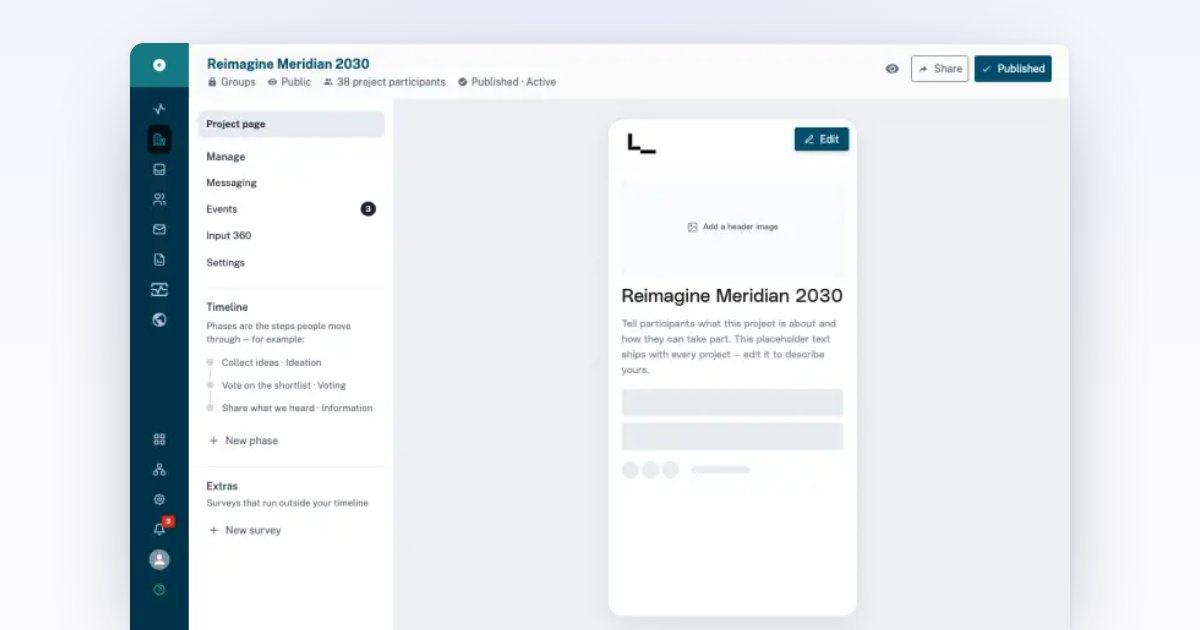
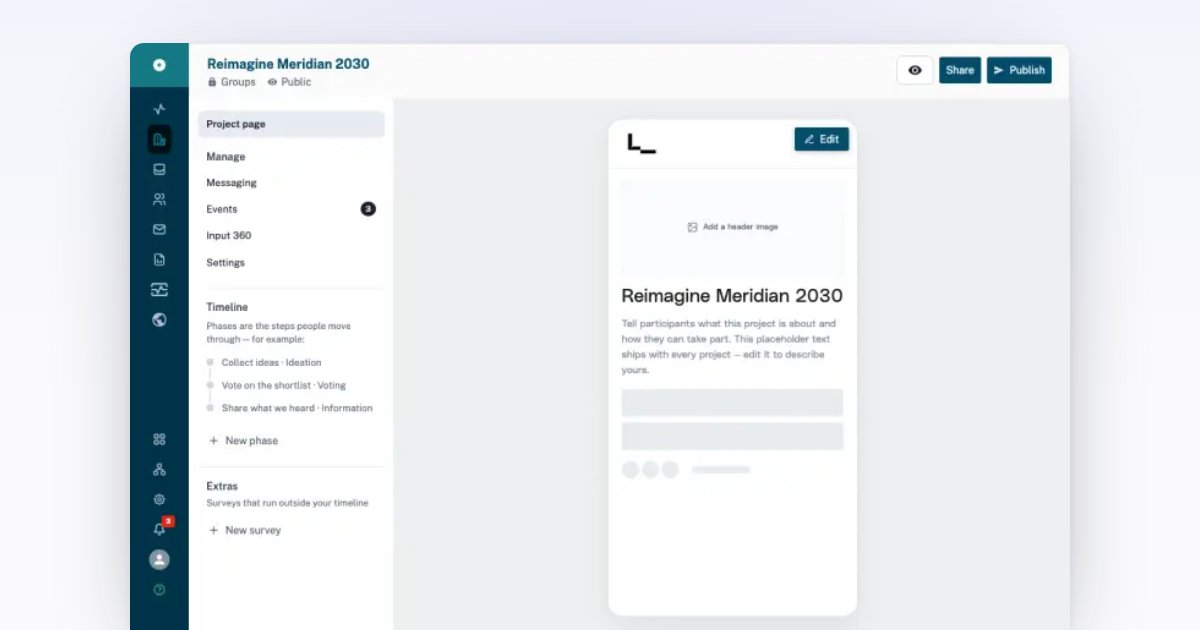
back-office-test: unpublished top-bar (eye · Share · Publish) + Schedule-publication modal
The draft project no longer shows a Published status: the meta drops the participant
count and 'Published · Active', and the top-right is the real unpublished cluster —
outlined Preview (eye), navy Share, navy Publish with the paper-plane glyph. Publish
opens a faithful 'Schedule publication' modal (Schedule/Now toggle, date+time, audience,
'Project published' email toggle, recipient count).

Changed region(s): [[0.74, 0.0603, 0.8942, 0.1508], [0.2775, 0.1206, 0.4625, 0.1508]]

diff --git a/parallel-participation/prototypes/back-office-test/index.html b/parallel-participation/prototypes/back-office-test/index.html
@@ -608,9 +608,9 @@
   .icon-btn:hover { background: #f7f8fa; }
   /* Project topbar "preview" = a borderless icon button (real GoVocal has no box
      border here), link-blue eye glyph, with a hover background. */
-  .gv-bo-topbar__actions .pp-topbar-view { border: 0; background: transparent; color: var(--gv-bo-link, #4183c4); padding: 6px; border-radius: 6px; }
-  .gv-bo-topbar__actions .pp-topbar-view:hover { background: #eef1f4; }
-  .gv-bo-topbar__actions .pp-topbar-view > [data-gv-icon] { height: 22px; }
+  .gv-bo-topbar .gv-bo-topbar__actions .gv-btn--icon.pp-topbar-view { border: 1px solid #cbd2dc; background: #fff; color: var(--ink); padding: 9px 14px; border-radius: 8px; }
+  .gv-bo-topbar .gv-bo-topbar__actions .gv-btn--icon.pp-topbar-view:hover { background: #f4f6fa; }
+  .gv-bo-topbar .gv-bo-topbar__actions .gv-btn--icon.pp-topbar-view > [data-gv-icon] { height: 20px; }
   /* Optically centre the meta-row glyphs with their label: a 14px icon on the
      13px text box extends ~0.5px past cap-height, so it reads as sitting high.
      A 1px downward nudge lines the icon up with the text's optical centre. */
@@ -693,6 +693,50 @@
   .btn-primary:hover { background:#162d54; }
   .btn-secondary { background:#fff; color:var(--ink); padding: 9px 18px; border-radius:8px; font-weight:500; font-size:13.5px; border:1px solid var(--border); }
   .btn-secondary:hover { background:#f4f6fa; }
+
+  /* ============ Schedule-publication modal (Publish button) ============ */
+  .pub-card { width: 640px; max-width: 92vw; height: auto; max-height: 90vh; }
+  .pub-head { padding: 24px 28px 18px; border-bottom: 1px solid var(--border); }
+  .pub-head h2 { font-size: 22px; font-weight: 700; color: var(--ink); }
+  .pub-x { color: #6b7280; padding: 4px; border-radius: 6px; line-height: 0; }
+  .pub-x:hover { background: #f4f6fa; color: var(--ink); }
+  .pub-x [data-gv-icon] { width: 22px; height: 22px; }
+  .pub-body { padding: 22px 28px 26px; overflow-y: auto; }
+  .pub-label { font-size: 15px; font-weight: 700; color: var(--ink); margin: 0 0 12px; }
+  .pub-seg {
+    display: grid; grid-template-columns: 1fr 1fr; gap: 4px;
+    background: #eef0f3; border-radius: 12px; padding: 5px; margin-bottom: 26px;
+  }
+  .pub-seg button {
+    display: flex; align-items: center; justify-content: center; gap: 10px;
+    padding: 12px; border-radius: 9px; font-size: 15px; font-weight: 600; color: var(--ink-2);
+  }
+  .pub-seg button [data-gv-icon] { width: 18px; height: 18px; }
+  .pub-seg button.on { background: #fff; color: var(--ink); box-shadow: 0 1px 3px rgba(20,25,40,.12); }
+  .pub-when { display: flex; gap: 12px; margin-bottom: 26px; }
+  .pub-field {
+    display: flex; align-items: center; justify-content: space-between; gap: 12px;
+    padding: 12px 14px; border: 1px solid var(--border); border-radius: 8px;
+    font-size: 15px; color: var(--ink); min-width: 150px;
+  }
+  .pub-field [data-gv-icon] { width: 18px; height: 18px; color: var(--ink-3); }
+  .pub-row-text { font-size: 15px; color: var(--ink-2); line-height: 1.5; margin-bottom: 26px; }
+  .pub-link { color: #1f5fbf; text-decoration: underline; cursor: pointer; }
+  .pub-emailrow { display: flex; align-items: center; justify-content: space-between; gap: 16px; }
+  .pub-recip { font-size: 14px; color: var(--ink-3); margin-top: 8px; display: flex; align-items: center; gap: 6px; }
+  .pub-recip [data-gv-icon] { width: 15px; height: 15px; color: #9aa3b0; }
+  .pub-toggle {
+    width: 52px; height: 30px; border-radius: 999px; background: #34a853; position: relative;
+    flex-shrink: 0; transition: background .15s;
+  }
+  .pub-toggle::after {
+    content: ""; position: absolute; top: 3px; left: 25px; width: 24px; height: 24px;
+    border-radius: 999px; background: #fff; box-shadow: 0 1px 2px rgba(0,0,0,.3); transition: left .15s;
+  }
+  .pub-toggle.off { background: #c2c8d0; }
+  .pub-toggle.off::after { left: 3px; }
+  .pub-foot { padding: 16px 28px; border-top: 1px solid var(--border); display: flex; justify-content: flex-end; }
+  .pub-foot .gv-btn { padding: 11px 22px; font-size: 15px; }
 
   /* ============ Phase config view ============ */
   .phase-stage {
@@ -2341,11 +2385,10 @@
     <div class="gv-bo-topbar__row">
       <div>
         <h1 class="gv-bo-topbar__title" onclick="setView('project', document.querySelector('.side-item[data-view=&quot;project&quot;]'))">Reimagine Meridian 2030</h1>
+        <!-- Draft project (not yet published): no participant count, no "Published" status. -->
         <div class="gv-bo-meta">
           <span class="gv-bo-meta__item"><span class="gv-icon" data-gv-icon="lock"></span>Groups</span>
           <span class="gv-bo-meta__item"><span class="gv-icon" data-gv-icon="eye"></span>Public</span>
-          <span class="gv-bo-meta__item"><span class="gv-icon" data-gv-icon="group"></span>38 project participants</span>
-          <span class="gv-bo-meta__item"><span class="gv-icon" data-gv-icon="check-circle"></span>Published · Active</span>
         </div>
       </div>
       <div class="gv-bo-topbar__actions">
@@ -2365,8 +2408,8 @@
           </div>
         </div>
         <button class="gv-btn gv-btn--icon pp-topbar-view" aria-label="Preview project" onclick="openFO()"><span data-gv-icon="eye"></span></button>
-        <button class="gv-btn secondary-outlined"><span data-gv-icon="share"></span><span class="gv-btn__label">Share</span></button>
-        <button class="gv-btn admin-dark"><span data-gv-icon="check"></span><span class="gv-btn__label">Published</span></button>
+        <button class="gv-btn admin-dark"><span class="gv-btn__label">Share</span></button>
+        <button class="gv-btn admin-dark" onclick="openPublishModal()"><span data-gv-icon="send"></span><span class="gv-btn__label">Publish</span></button>
       </div>
     </div>
   </header>
@@ -5370,6 +5413,46 @@
 </script>
 
 <!-- ============ Phase Settings Modal ============ -->
+<!-- ============ Schedule-publication modal — opened by the Publish button ============ -->
+<div id="publishModal" class="modal-backdrop" style="display:none;" onclick="if(event.target===this)closePublishModal()">
+  <div class="modal-card pub-card">
+    <div class="pub-head" style="display:flex;align-items:flex-start;justify-content:space-between;">
+      <h2>Schedule publication</h2>
+      <button class="pub-x" aria-label="Close" onclick="closePublishModal()"><span data-gv-icon="close"></span></button>
+    </div>
+    <div class="pub-body">
+      <!-- Schedule / Now segmented toggle -->
+      <div class="pub-seg" role="group" aria-label="When to publish">
+        <button class="on" data-when="schedule" onclick="setPublishWhen('schedule', this)"><span data-gv-icon="calendar"></span>Schedule</button>
+        <button data-when="now" onclick="setPublishWhen('now', this)"><span data-gv-icon="send"></span>Now</button>
+      </div>
+
+      <!-- When (date + time) — shown for the Schedule option -->
+      <div id="pub-when-block">
+        <p class="pub-label">When</p>
+        <div class="pub-when">
+          <span class="pub-field">19/06/2026 <span data-gv-icon="calendar"></span></span>
+          <span class="pub-field">1:00 PM <span data-gv-icon="clock"></span></span>
+        </div>
+      </div>
+
+      <!-- Audience -->
+      <p class="pub-label">Who can see this project?</p>
+      <p class="pub-row-text">Anyone can see this project · <span class="pub-link">Edit</span></p>
+
+      <!-- Published email -->
+      <div class="pub-emailrow">
+        <p class="pub-label" style="margin:0;">Send "Project published" email</p>
+        <span class="pub-toggle" role="switch" aria-checked="true" tabindex="0" onclick="this.classList.toggle('off');this.setAttribute('aria-checked', this.classList.contains('off')?'false':'true')"></span>
+      </div>
+      <p class="pub-recip">&#8776; 46 recipients <span data-gv-icon="info-solid"></span> · <span class="pub-link">Edit settings</span></p>
+    </div>
+    <div class="pub-foot">
+      <button class="gv-btn admin-dark" id="pub-confirm" onclick="closePublishModal()"><span data-gv-icon="check"></span><span class="gv-btn__label">Schedule</span></button>
+    </div>
+  </div>
+</div>
+
 <div id="phaseSettingsModal" class="modal-backdrop" style="display:none;">
   <div class="modal-card">
     <div class="modal-head">
@@ -6930,6 +7013,33 @@
     else document.addEventListener("DOMContentLoaded", sync);
     setTimeout(sync, 400);
   })();
+</script>
+
+<!-- Schedule-publication modal behaviour (Publish button) -->
+<script>
+  function openPublishModal() {
+    var m = document.getElementById('publishModal');
+    if (m) m.style.display = 'flex';
+  }
+  function closePublishModal() {
+    var m = document.getElementById('publishModal');
+    if (m) m.style.display = 'none';
+  }
+  // Schedule ↔ Now: "Now" hides the date/time picker and relabels the confirm button.
+  function setPublishWhen(when, btn) {
+    document.querySelectorAll('.pub-seg button').forEach(function (b) { b.classList.remove('on'); });
+    if (btn) btn.classList.add('on');
+    var whenBlock = document.getElementById('pub-when-block');
+    var confirm = document.getElementById('pub-confirm');
+    var now = when === 'now';
+    if (whenBlock) whenBlock.style.display = now ? 'none' : '';
+    if (confirm) confirm.querySelector('.gv-btn__label').textContent = now ? 'Publish now' : 'Schedule';
+  }
+  document.addEventListener('keydown', function (e) {
+    if (e.key !== 'Escape') return;
+    var m = document.getElementById('publishModal');
+    if (m && m.style.display !== 'none') closePublishModal();
+  });
 </script>
 
 <!-- Blue-rail readability/hover explorer (5 options) — prototype-local, detached from
